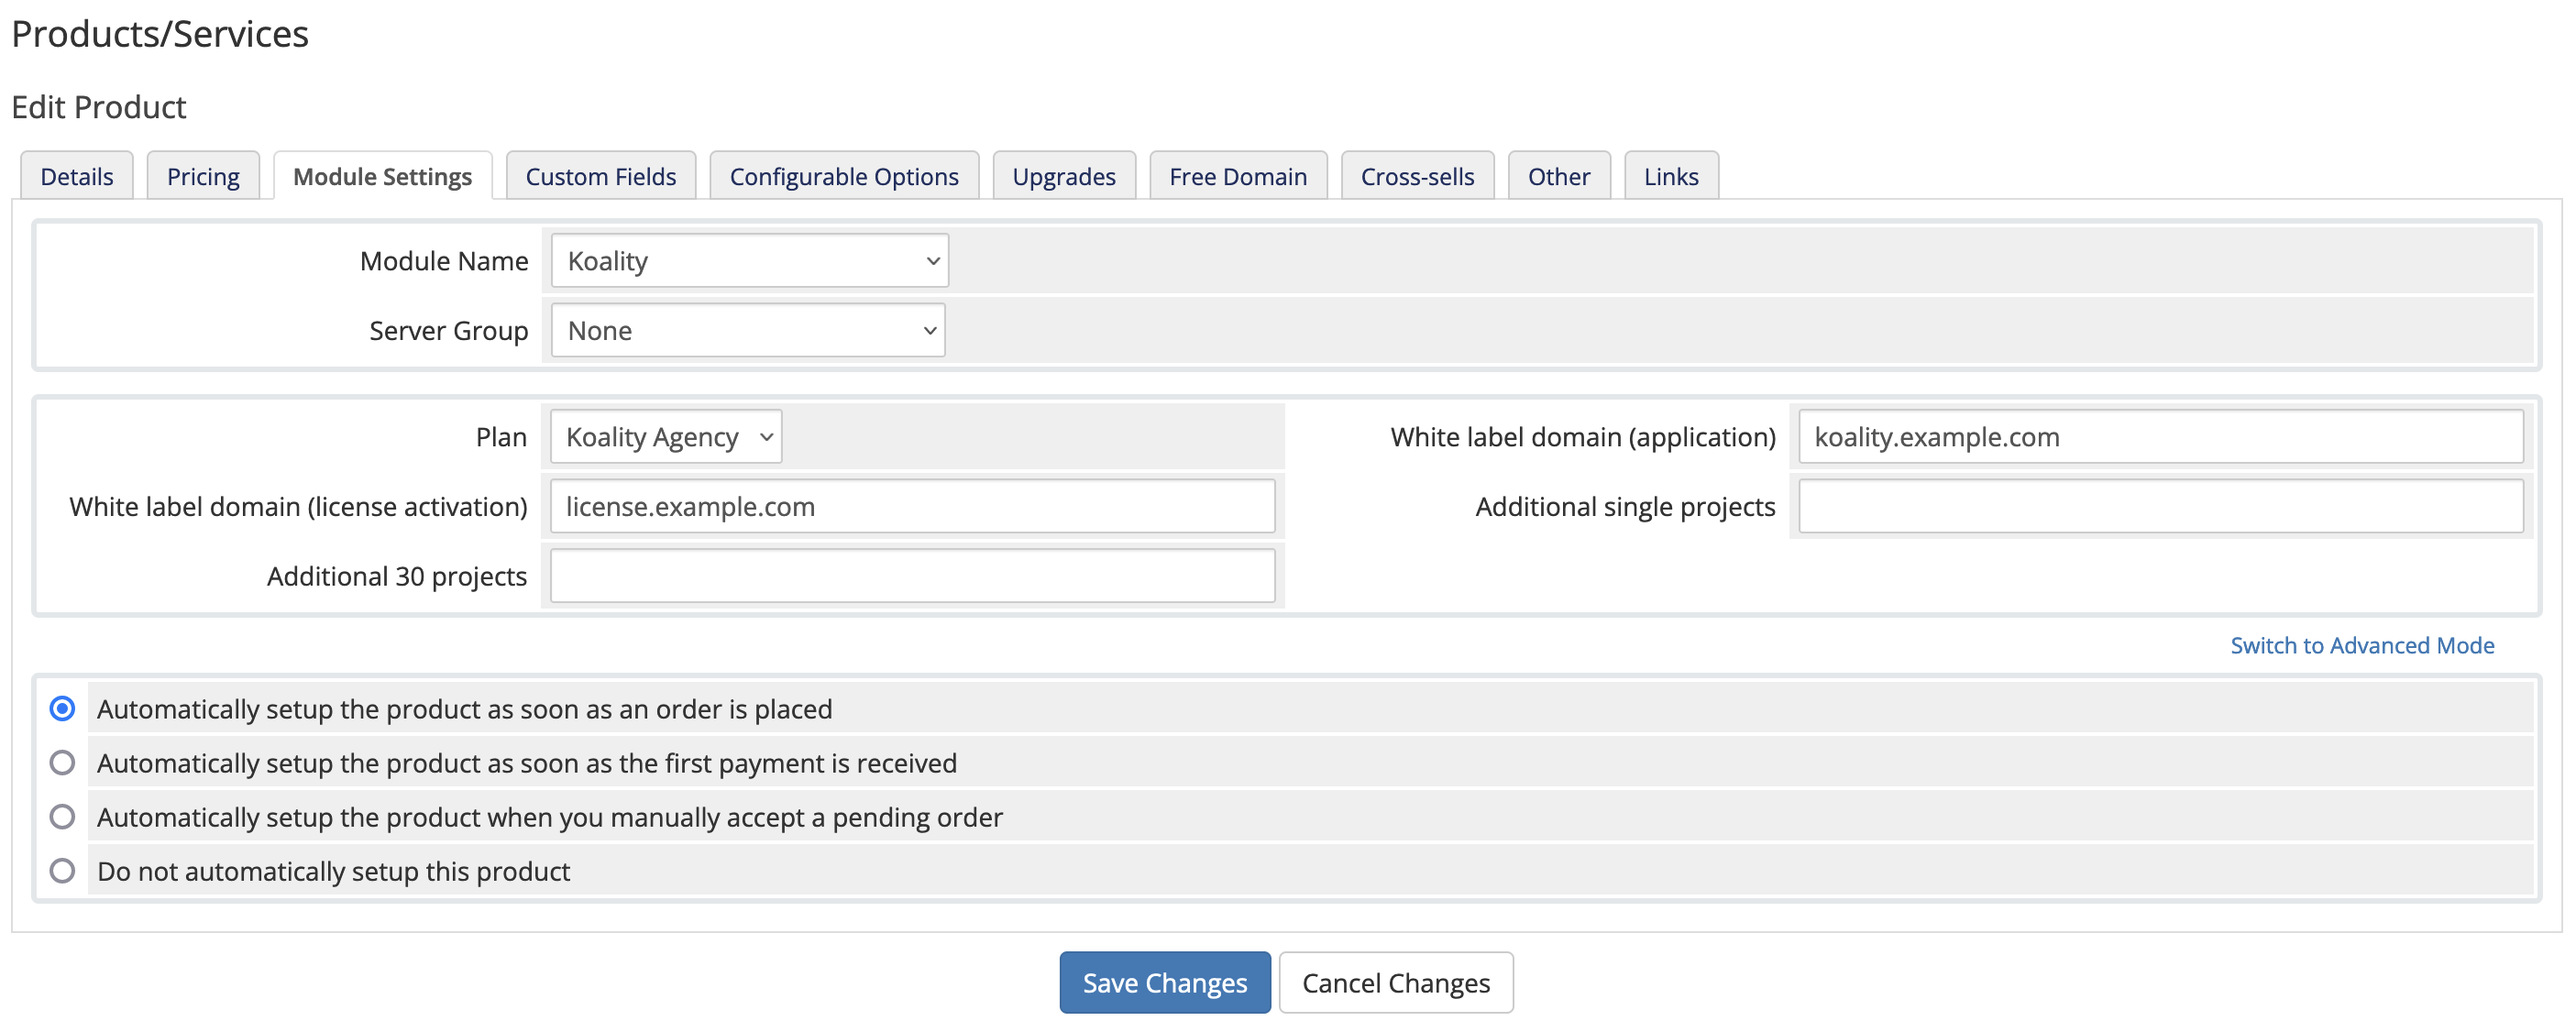
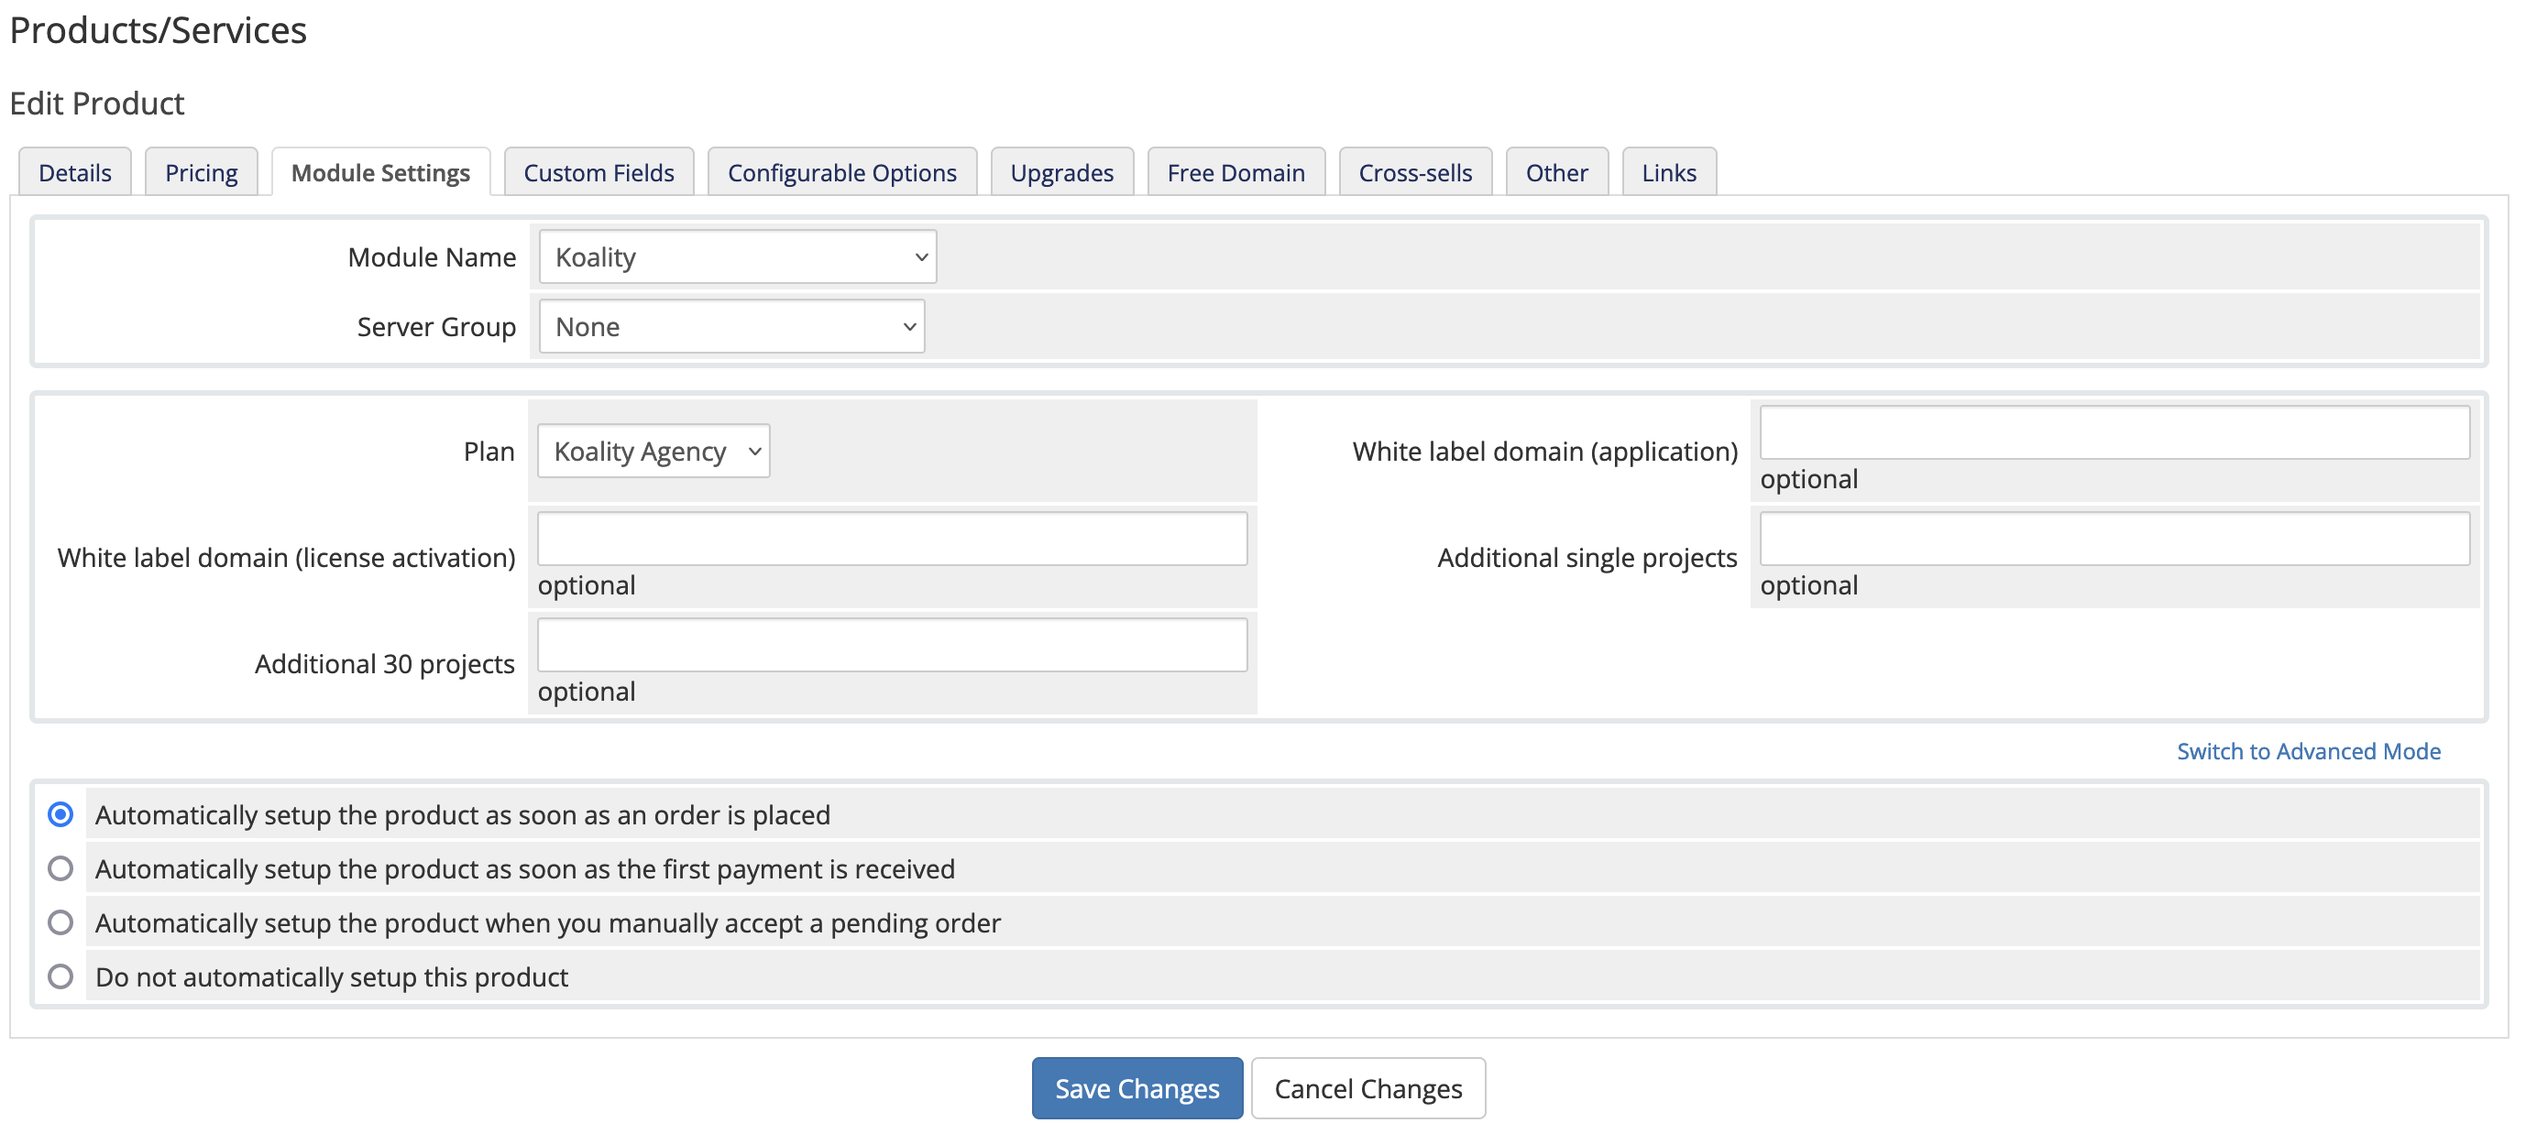
Mark fields as optional

Changed region(s): [[0.0, 0.0, 0.9985, 0.9947]]

diff --git a/koality.php b/koality.php
@@ -67,24 +67,28 @@ function koality_ConfigOptions(): array
             'FriendlyName' => $translator->translate('koality_label_domain_application'),
             'Type' => 'text',
             'Default' => '',
+            'Description' => 'optional',
             'SimpleMode' => true,
         ],
         ProductOption::DOMAIN_LICENSE_ACTIVATION => [
             'FriendlyName' => $translator->translate('koality_label_domain_license_activation'),
             'Type' => 'text',
             'Default' => '',
+            'Description' => 'optional',
             'SimpleMode' => true,
         ],
         ProductOption::ADDITIONAL_SINGLE_PROJECT => [
             'FriendlyName' => $translator->translate('koality_label_additional_single_projects'),
             'Type' => 'text',
             'Default' => '',
+            'Description' => 'optional',
             'SimpleMode' => true,
         ],
         ProductOption::ADDITIONAL_THIRTY_PROJECTS => [
             'FriendlyName' => $translator->translate('koality_label_additional_thirty_projects'),
             'Type' => 'text',
             'Default' => '',
+            'Description' => 'optional',
             'SimpleMode' => true,
         ],
     ];
